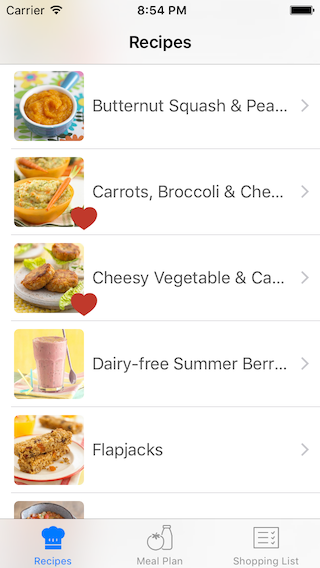
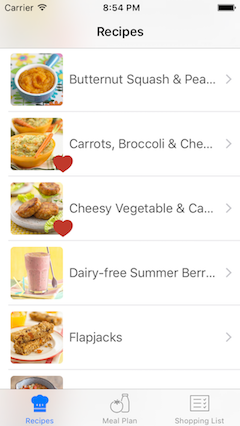
Fix (doc): Reduce image sizes for fit, modify doc formatting

diff --git a/README.md b/README.md
@@ -16,31 +16,37 @@ Create easy, nutritious, and varied meal plans for your baby every single week.
 ## Features and Functionality
 
 * Authentication enabled using Google Firebase backend
+
 ![Hungry Baby screenshot](/doc/HB1.png)
 
 * View all recipes in a table view. Favorite recipes are marked with a heart.
+
 ![Hungry Baby screenshot](/doc/HB2.png)
 
 * Read recipe details. Tap on the "heart" button to mark/unmark recipe as a favorite.
+
 ![Hungry Baby screenshot](/doc/HB3.png)
 
 * Generate a weekly meal plan with meals listed by day of the week. Regenerate meal plans with the tap of a button.
+
 ![Hungry Baby screenshot](/doc/HB4.png)
 
 * Get a shopping list for your weekly meal plan. Cross-off items from the list with a swipe.
+
 ![Hungry Baby screenshot](/doc/HB5.png)
 
 ## User Instructions
 
-* Build
+* **Build**
   * Use Xcode 7.3 or higher to build the app.
+  * App is designed to run on iPhone (any model) in portrait orientation.
 
-* Access
+* **Access**
   * Login using the following credentials or login anonymously.
   * Username: test@example.com
   * Password: password
 
-* Usage Notes
+* **Usage Notes**
   * In "Recipe Detail" view, tap the top-right "heart" button to mark the recipe as a favorite.
   * In "Meal Plan" view, tap the top-right "refresh" button to generate a new meal plan. This will also generate a new shopping list for ingredients from that meal plan.
   * In "Shopping List" view, swipe left on a row to delete/restore the list item. Pressing "delete" will cross-off the item from the list.
